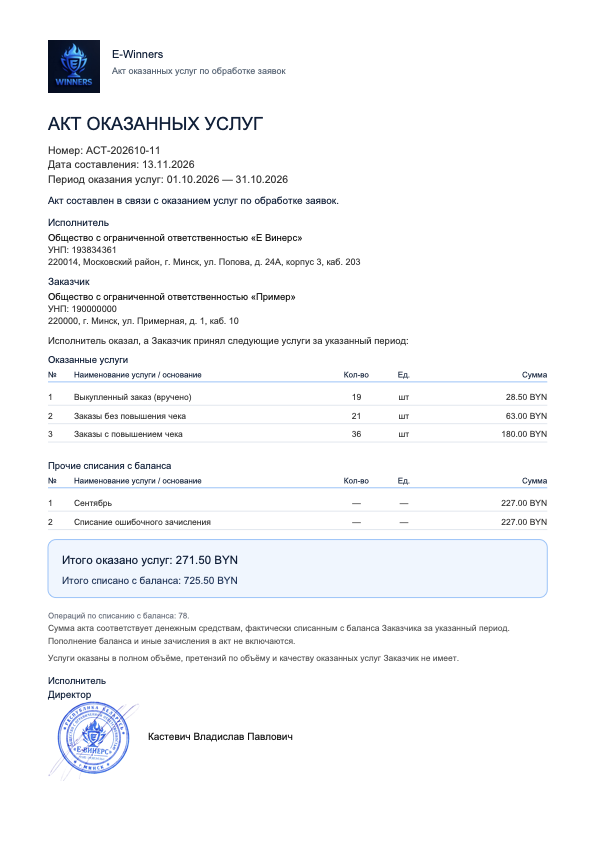
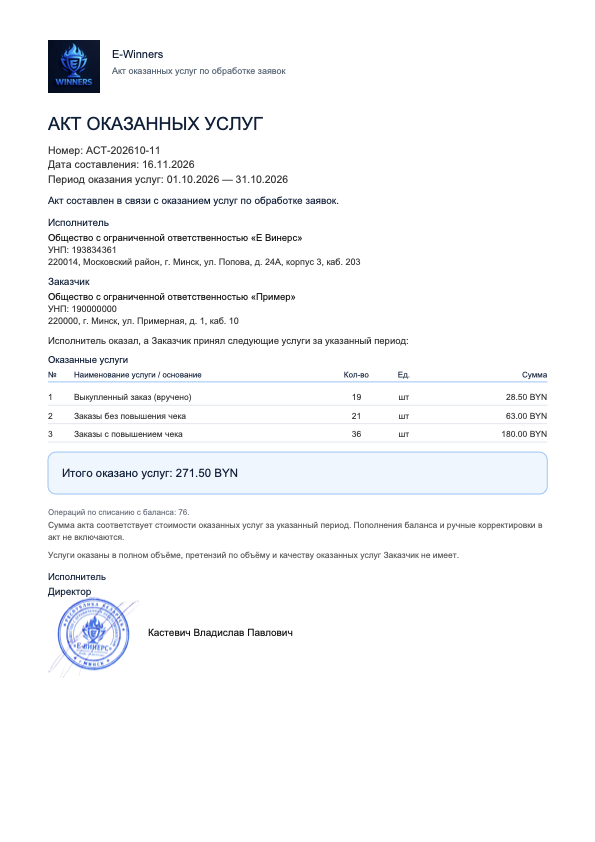
Акты: только оказанные услуги, без ручных корректировок
В акт больше не попадают ручные списания и корректировки с произвольными комментариями. Сумма акта равна стоимости услуг за месяц; все существующие акты пересобраны.

Changed region(s): [[0.0605, 0.5249, 0.9378, 0.9264], [0.5748, 0.5558, 0.6353, 0.5867], [0.6655, 0.5558, 0.6958, 0.5867]]

diff --git a/server/src/services/actPdf.js b/server/src/services/actPdf.js
@@ -282,8 +282,8 @@ export async function generateActPdf({
     .fontSize(8.5)
     .fillColor('#555')
     .text(
-      'Сумма акта соответствует денежным средствам, фактически списанным с баланса Заказчика за указанный период. ' +
-        'Пополнение баланса и иные зачисления в акт не включаются.',
+      'Сумма акта соответствует стоимости оказанных услуг за указанный период. ' +
+        'Пополнения баланса и ручные корректировки в акт не включаются.',
       left,
       y,
       { width, lineGap: 1 },

diff --git a/server/src/services/monthlyActs.js b/server/src/services/monthlyActs.js
@@ -80,6 +80,9 @@ export async function loadActTransactions(companyId, period) {
       WHERE t.company_id = :company_id
         AND t.type = 'debit'
         AND t.status = 'posted'
+        -- В акт попадают только оказанные услуги. Ручные корректировки
+        -- («Ибо нехуй», «/» и т.п.) — это не услуги, их в акте быть не должно.
+        AND t.service_id IS NOT NULL
         AND t.created_at BETWEEN :from AND :to
       ORDER BY t.created_at ASC, t.id ASC`,
     {

diff --git a/README.md b/README.md
@@ -185,11 +185,12 @@ SalesRender (списание при статусе «Вручено»): см. `
 
 ### Акты оказанных услуг
 
-- Счёт — это пополнение баланса. Акт — это **только те деньги, которые списаны с баланса** за календарный месяц.
+- Счёт — это пополнение баланса. Акт — это **стоимость оказанных услуг** за календарный месяц. Пополнения баланса и ручные корректировки в акт не включаются.
+- В акт попадают только операции с услугой. Ручные списания/корректировки с произвольными комментариями в акте не отображаются.
 - Акт формируется автоматически: в последний день месяца в 23:50 (Минск), а на следующий день обновляется с учётом последних списаний. Если за месяц списаний не было, акт не создаётся.
 - В акте по КЦ указано: «Акт составлен в связи с оказанием услуг по обработке заявок». Формулировки — только про оказание услуг.
 - В акте услуги обзвона называются «Заказы с повышением чека» и «Заказы без повышения чека» — без внутренних терминов «апсейл/кроссейл».
-- Клиент не может сформировать произвольный акт: сумму и услуги выбрать нельзя. Но в **Документах** есть кнопка **«Запросить акт за месяц»**: она собирает акт только по фактическим списаниям с баланса за выбранный прошедший месяц. Повторный запрос открывает уже готовый документ.
+- Клиент не может сформировать произвольный акт: сумму и услуги выбрать нельзя. Но в **Документах** есть кнопка **«Запросить акт за месяц»**: она собирает акт только по фактически оказанным услугам за выбранный прошедший месяц. Повторный запрос открывает уже готовый документ.
 - Старый маршрут акта по счёту (`/api/cabinet/invoices/:id/act`) отвечает отказом: акт по счёту больше не формируется.
 - Управление планировщиком: `MONTHLY_ACT_ENABLED=0`, `MONTHLY_ACT_HOUR`, `MONTHLY_ACT_MINUTE`, `MONTHLY_ACT_BACKFILL=0`.
 - Ручной пересчёт/досоздание: `cd server && npm run acts:generate -- --period=2026-10` (или `--company=<id>`, `--force`).
